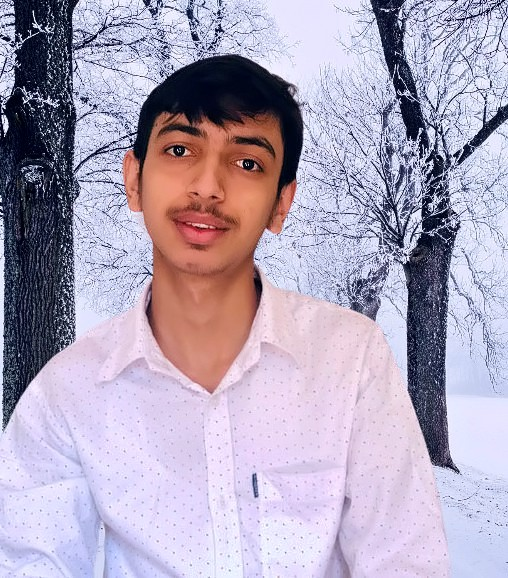
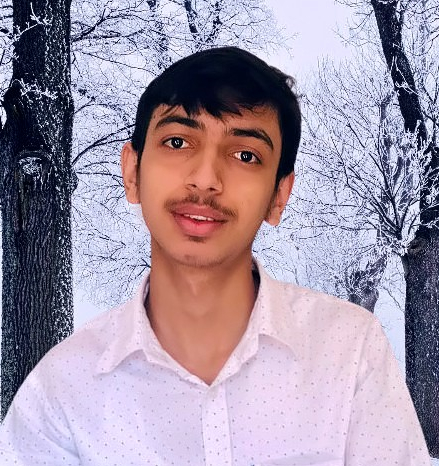
Update profile and remove src attribute from div

diff --git a/index.html b/index.html
@@ -22,7 +22,7 @@
             </span>
             <div class='nav_wrapper'>
                 <div class='nav_image_container'>
-                    <div src='images/about.jpg' class='nav_image'></div>
+                    <div class='nav_image'></div>
                 </div>
 
                 <div class='nav_name_container center'>
